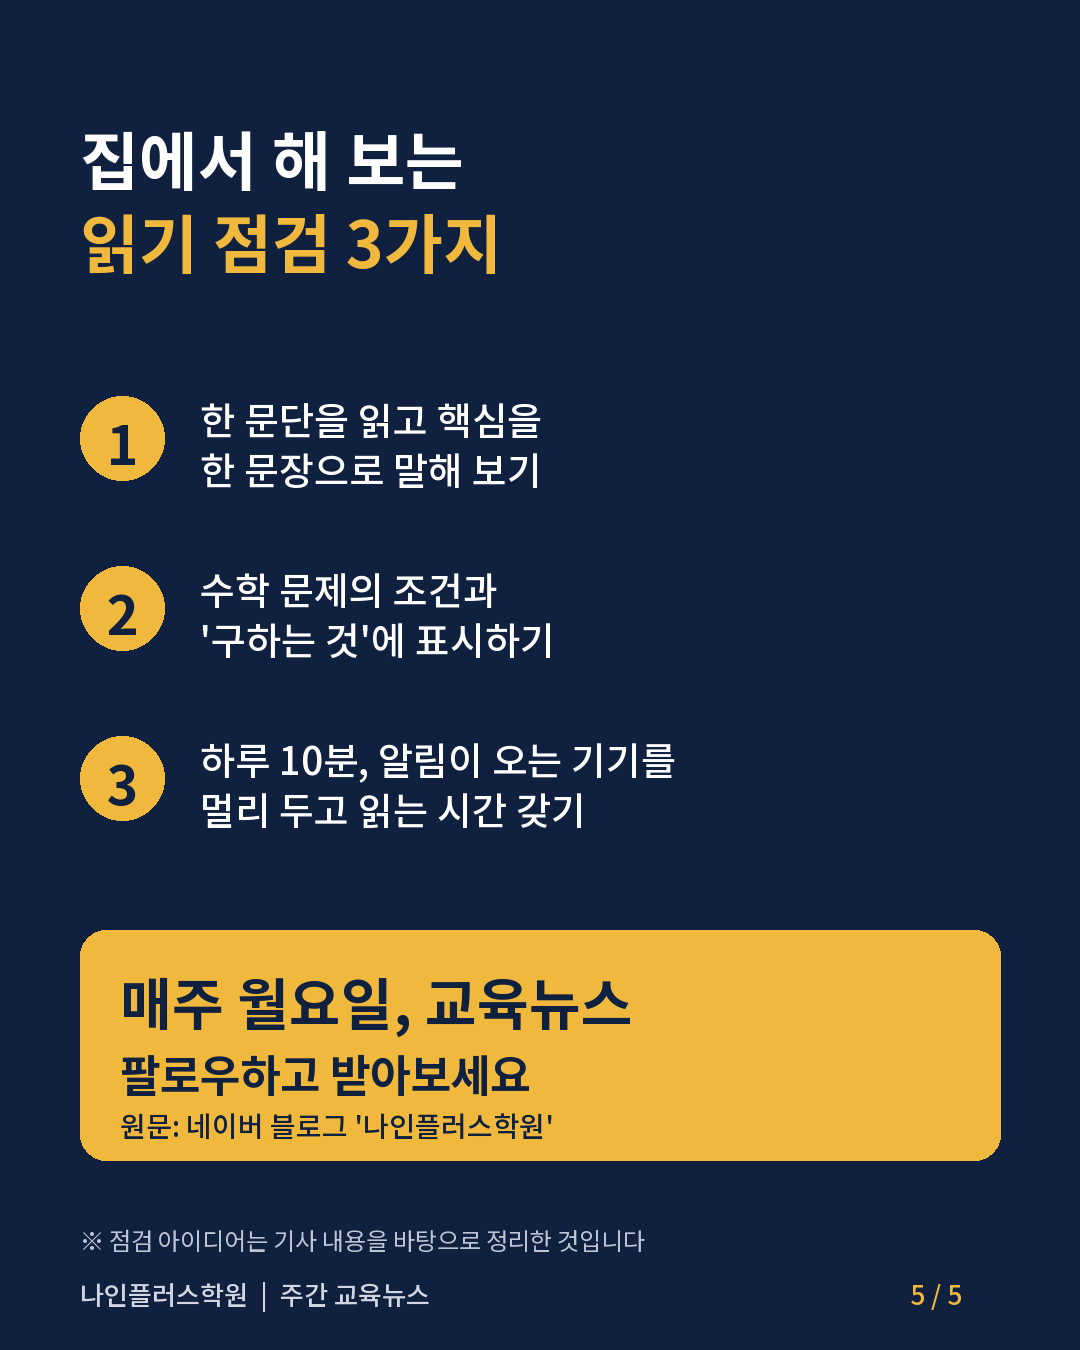
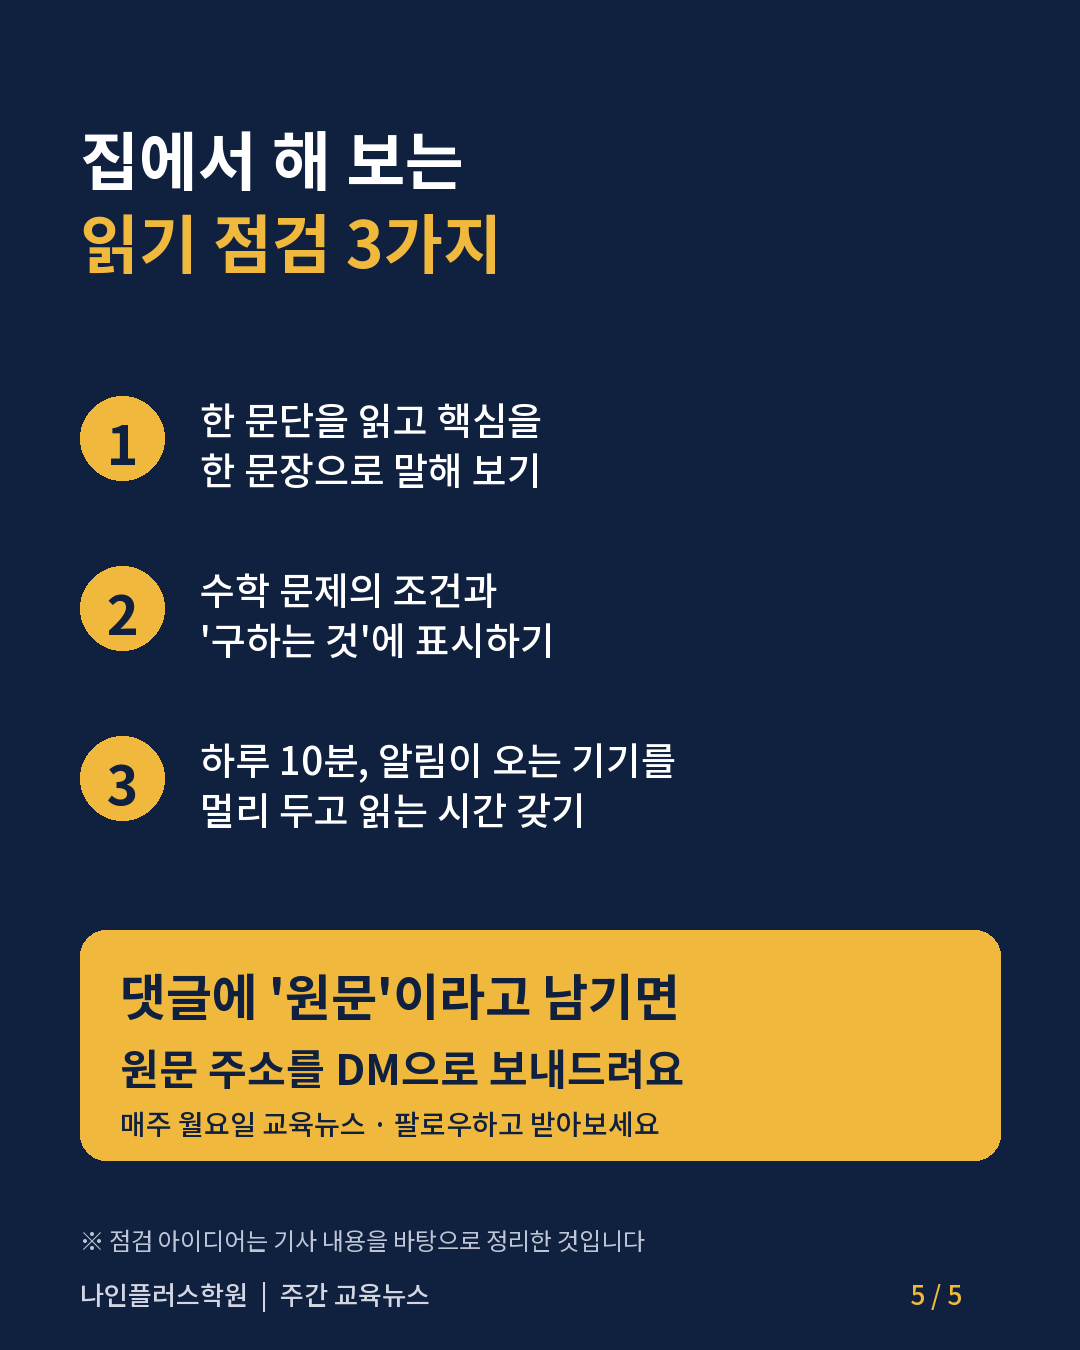
교육뉴스 인스타 캐러셀 안내를 '원문' 댓글→DM으로 변경, KittyChat 설정 절차 기록

Changed region(s): [[0.0917, 0.7156, 0.6417, 0.84]]

diff --git a/docs/publishing-plan.md b/docs/publishing-plan.md
@@ -375,6 +375,7 @@ Threads API는 같은 Meta 앱 안에서 Facebook 로그인/페이지 관리 이
   + `_status.json`의 `naver_blog_url`. 구글 블로그가 먼저 발행돼야 하고, 게시 후 `facebook_post` 키를 기록한다(ALL_STEPS 제외).
 - 네이버 글이 아직 공개 전이면 미뤘다가 다음 실행에서 재시도한다. 중복 게시는 파일 삭제·상태 키로 막는다.
 - **교육뉴스 인스타 캐러셀(2026-10-30 추가)**: `queue/_edu_ig/01~05.png` + `캡션.md`를 같은 워크플로·스크립트(`run_edu_ig`)가 인스타에 게시한다(네이버 글 공개 확인 후, 게시 후 폴더 삭제). 팔로우·네이버 블로그 조회 증가 목적의 시험이며 비교 기준은 `sns-analysis-log.md` 10/30 항목.
+- **KittyChat "원문" 자동화(2026-10-30 생성)**: 교육뉴스 인스타 캐러셀의 안내("댓글에 '원문'이라고 남기면 원문 주소를 DM으로")용. 키워드 "원문"(특정=정확히 일치), 모든 게시물 적용, DM은 그 주 네이버 글 주소. **매주 월요일(또는 주소 기록 직후) KittyChat 대시보드 > 자동 DM & 대댓글 > "원문" 항목의 DM 주소를 그 주 교육뉴스 네이버 주소로 교체**한다(처음에는 블로그 홈 `https://blog.naver.com/math20335`). 기존 "9" 자동화는 별개로 유지. 테스트는 학원 계정이 아닌 다른 계정으로.
 - 수동 실행(`workflow_dispatch`)과 `dry_run` 지원. 페이지 토큰은 기존 `FACEBOOK_PAGE_ID`·`FACEBOOK_PAGE_ACCESS_TOKEN` 그대로 쓴다.
 - 주의: 링크 포함 게시물의 도달이 줄 수 있어(월 2개 제한 여부 미확인) 첫 몇 주 반응을 `sns_analysis_team`이 확인한다.
 

diff --git a/queue/_edu_ig/캡션.md b/queue/_edu_ig/캡션.md
@@ -7,7 +7,7 @@
 
 집에서는 한 문단을 읽고 핵심을 한 문장으로 말해 보기, 수학 문제의 조건과 '구하는 것'에 표시하기를 해 볼 수 있어요.
 
-📝 원문은 네이버 블로그 '나인플러스학원'(math20335)에서 읽어 보세요
+💬 댓글에 '원문'이라고 남겨 주시면 원문 주소를 DM으로 보내드려요
 🔔 매주 월요일 교육뉴스, 팔로우하고 받아보세요
 
 #나인플러스학원 #수원학원 #우만동학원 #문해력 #한자병기 #독서교육 #교육뉴스 #학습법
